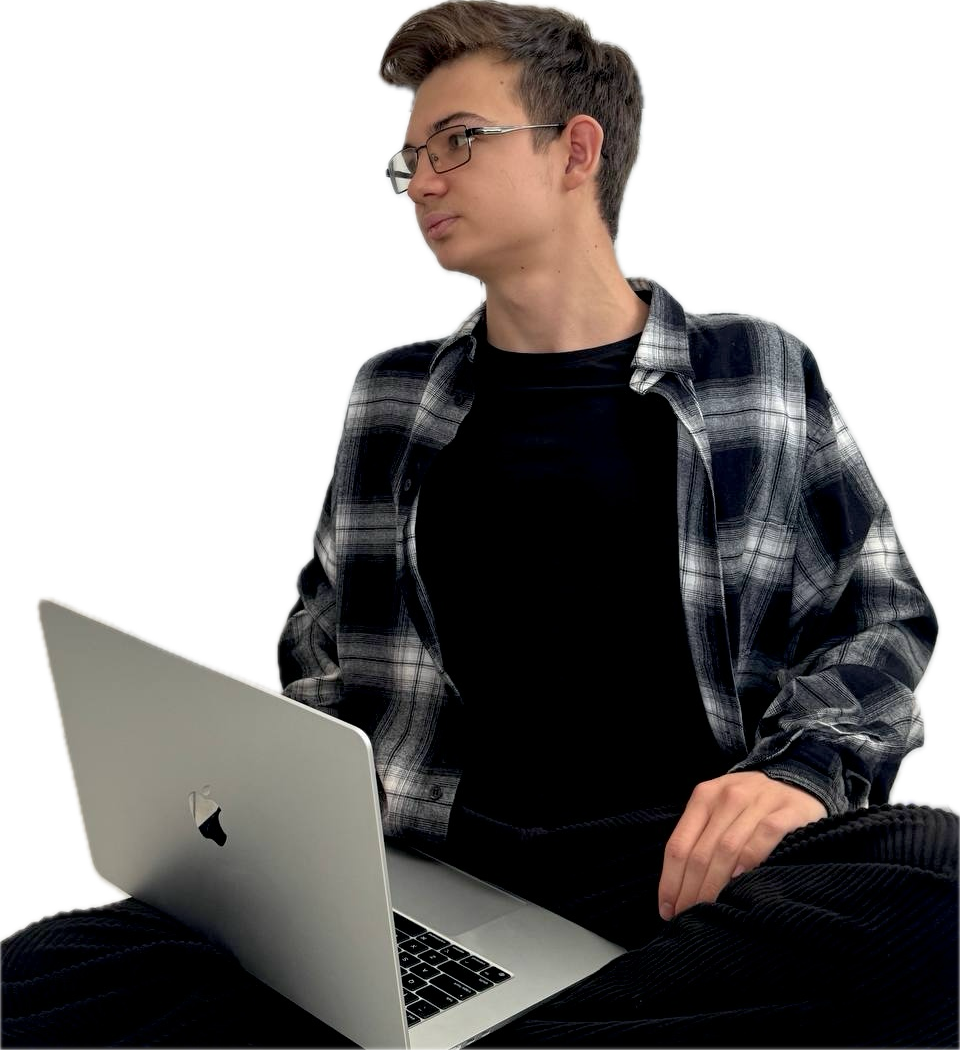
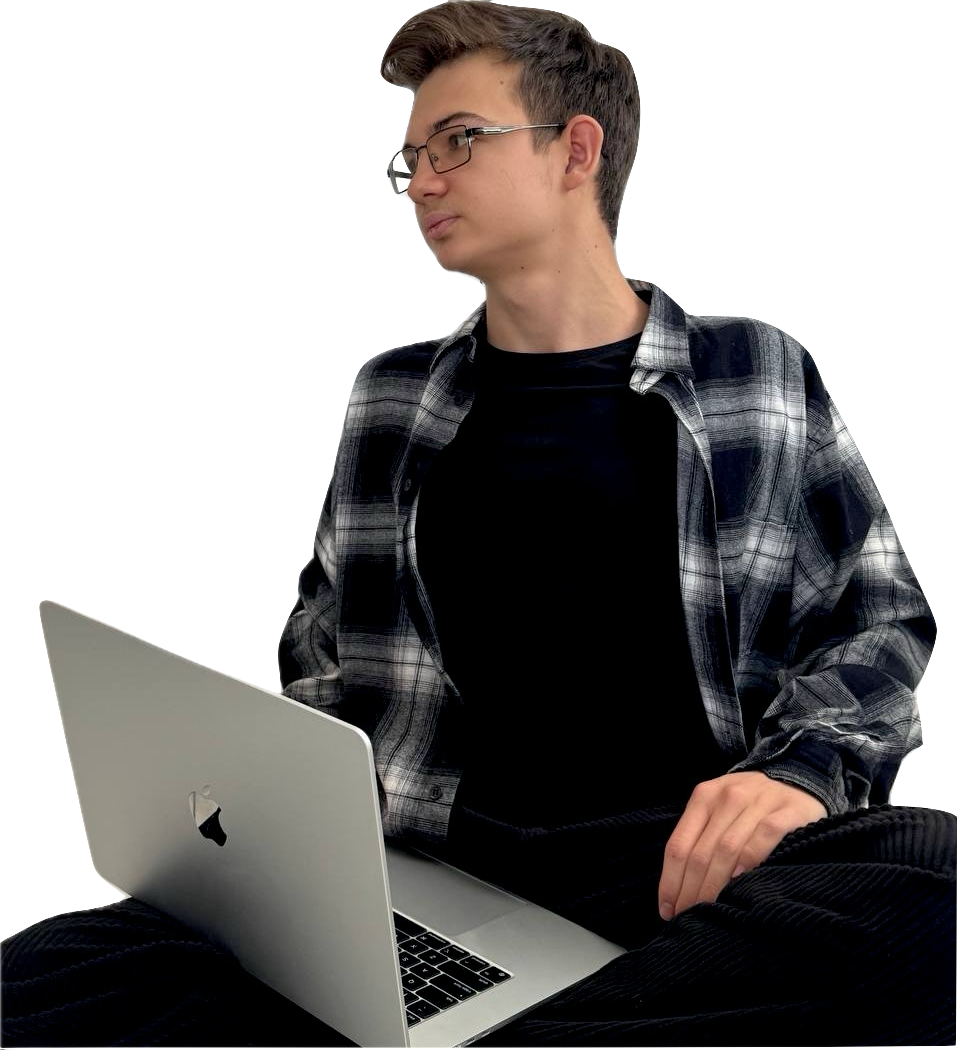
Доработка кроссбраузерности сайта

diff --git a/static/css/main.css b/static/css/main.css
@@ -83,7 +83,144 @@ body {
         max-width: 43vw;
     }
 }
+/* Затемняющий слой, который уезжает вверх */
+.introduce::before {
+    content: '';
+    position: absolute;
+    top: 0;
+    left: 0;
+    width: 100%;
+    height: 100%;
+    background: var(--bg);
+    z-index: 10;
+    animation: slideUp 1.8s cubic-bezier(0.77, 0, 0.18, 1) forwards;
+    pointer-events: none;
+}
 
+/* Второй слой для эффекта вылета из-за угла */
+.introduce::after {
+    content: '';
+    position: absolute;
+    top: 0;
+    left: 0;
+    width: 100%;
+    height: 100%;
+    background: linear-gradient(90deg, var(--bg) 0%, var(--bg) 50%, transparent 100%);
+    z-index: 9;
+    animation: slideRight 1.8s cubic-bezier(0.77, 0, 0.18, 1) forwards;
+    pointer-events: none;
+}
+
+/* Начальное состояние для всех элементов */
+.introduce-about h1,
+.introduce-about h2,
+.introduce-about h3,
+.social-links,
+.introduce-image {
+    opacity: 0;
+    transform: translateY(30px);
+    filter: blur(5px);
+}
+
+/* Индивидуальные анимации для каждого элемента */
+.introduce-about h1 {
+    animation: slideInFromBottom 0.6s cubic-bezier(0.23, 1, 0.32, 1) 1.2s forwards;
+}
+
+.introduce-about h2 {
+    animation: slideInFromBottom 0.6s cubic-bezier(0.23, 1, 0.32, 1) 1.4s forwards;
+}
+
+.introduce-about h3 {
+    animation: slideInFromBottom 0.6s cubic-bezier(0.23, 1, 0.32, 1) 1.6s forwards;
+}
+
+.social-links {
+    animation: slideInFromBottom 0.6s cubic-bezier(0.23, 1, 0.32, 1) 1.8s forwards;
+}
+
+.introduce-image {
+    animation: slideInFromBottom 0.8s cubic-bezier(0.23, 1, 0.32, 1) 1.3s forwards;
+}
+
+/* Ключевые кадры */
+@keyframes slideUp {
+    0% {
+        transform: translateY(0);
+    }
+    80% {
+        transform: translateY(-100%);
+    }
+    100% {
+        transform: translateY(-100%);
+        opacity: 0;
+    }
+}
+
+@keyframes slideRight {
+    0% {
+        transform: translateX(0);
+    }
+    50% {
+        transform: translateX(0);
+    }
+    100% {
+        transform: translateX(100%);
+        opacity: 0;
+    }
+}
+
+@keyframes slideInFromBottom {
+    0% {
+        opacity: 0;
+        transform: translateY(30px);
+        filter: blur(5px);
+    }
+    100% {
+        opacity: 1;
+        transform: translateY(0);
+        filter: blur(0);
+    }
+}
+
+/* Для мобильных устройств */
+@media (max-width: 1024px) {
+    .introduce::before {
+        animation: slideUpMobile 1.5s cubic-bezier(0.77, 0, 0.18, 1) forwards;
+    }
+
+    .introduce::after {
+        display: none;
+    }
+
+    .introduce-about h1,
+    .introduce-about h2,
+    .introduce-about h3,
+    .social-links,
+    .introduce-image {
+        animation: slideInFromBottom 0.5s cubic-bezier(0.23, 1, 0.32, 1) forwards;
+    }
+
+    .introduce-about h1 { animation-delay: 1.0s; }
+    .introduce-about h2 { animation-delay: 1.2s; }
+    .introduce-about h3 { animation-delay: 1.4s; }
+    .social-links { animation-delay: 1.6s; }
+    .introduce-image { animation-delay: 1.1s; }
+
+    @keyframes slideUpMobile {
+        0% { transform: translateY(0); }
+        70% { transform: translateY(-100%); }
+        100% { transform: translateY(-100%); opacity: 0; }
+    }
+}
+
+@media (max-width: 480px) {
+    .introduce-about h1 { animation-delay: 0.9s; }
+    .introduce-about h2 { animation-delay: 1.1s; }
+    .introduce-about h3 { animation-delay: 1.3s; }
+    .social-links { animation-delay: 1.5s; }
+    .introduce-image { animation-delay: 1.0s; }
+}
 header nav a {
     text-decoration: none;
     color: var(--text);
@@ -117,7 +254,7 @@ header {
     transition: 0.2s;
     aspect-ratio: 1 / 1;
     border-radius: 50%;
-    border: 2.5px solid var(--accent2);
+    border: 0.15vw solid var(--accent2);
     width: 2vw;
     padding: 0.3vw;
 }
@@ -166,7 +303,7 @@ header nav {
     width: 100%;
     max-width: 100%;
     padding: 0 3vw 0 5vw;
-    gap: 0;
+    gap: 6vw;
     /* секция растянута на всю ширину родителя */
     box-sizing: border-box;
 }
@@ -235,11 +372,11 @@ header nav {
     .introduce-about {
         grid-row: 2;
         width: 100%;
-        overflow: hidden;
     }
     .introduce-about h1 {
-        font-size: clamp(28px, 11vw, 72px);
-        transform: none;
+        font-size: clamp(28px, 10vw, 48px);
+        transform: scaleX(1.3);
+        transform-origin: center;
         max-width: 100%;
         display: block;
         text-align: center;
@@ -250,7 +387,7 @@ header nav {
     }
     .introduce-about h3 {
         font-size: clamp(12px, 2.5vw, 18px);
-        text-align: center;
+        text-align: justify-all;
     }
     .social-links {
         justify-content: center;
@@ -258,6 +395,7 @@ header nav {
     }
     .social-link {
         width: clamp(36px, 6vw, 48px);
+        border: 0.5vw solid var(--accent2);
         padding: 6px;
     }
     .btn-tz {
@@ -271,20 +409,14 @@ header nav {
         gap: 24px;
         padding: 0 5vw;
     }
-    .introduce-about h1 {
-        font-size: clamp(28px, 10vw, 48px);
-    }
     .introduce-about h2 {
-        font-size: clamp(16px, 5vw, 28px);
+        font-size: clamp(20px, 7vw, 30px);
     }
     .introduce-about h3 {
-        font-size: 13px;
+        font-size: 15px;
     }
     .introduce-image {
         width: clamp(160px, 65vw, 280px);
-    }
-    .social-links {
-        gap: 10px;
     }
     .social-link {
         width: 38px;
@@ -1197,7 +1329,7 @@ header nav {
 .out-accent { color: var(--accent2); font-family: 'JetBrains Mono', monospace;}
 .out-green  { color: var(--green); font-family: 'JetBrains Mono', monospace;}
 .out-muted  { font-family: 'JetBrains Mono', monospace;}
-.terminal-link { font-family: 'JetBrains Mono', monospace; text-decoration: underline; color: var(--accent); }
+.terminal-link { font-family: 'JetBrains Mono', monospace; text-decoration: underline; color: var(--accent2); }
 
 /* Спиннер при загрузке */
 .loading-dots {
@@ -1226,22 +1358,28 @@ header nav {
 }
 
 .profile-photo {
-    width: 30vw;
+    width: 35vw;
+    @media (max-width: 1024px) {
+        width: 45vw;
+    }
+    @media (max-width: 640px) {
+        width: 70vw;
+    }
     height: auto;
     display: block;
     -webkit-mask-image: linear-gradient(
             to bottom,
             black 0%,
-            black 55%,
-            rgba(0,0,0,0.85) 70%,
-            rgba(0,0,0,0.4) 85%,
+            black 100%,
+            rgba(0,0,0,0.85) 100%,
+            rgba(0,0,0,0.4) 100%,
             transparent 100%
     ),
     linear-gradient(
             to right,
             transparent 0%,
             black 12%,
-            black 88%,
+            black 100%,
             transparent 100%
     );
     -webkit-mask-composite: destination-in;
@@ -1261,8 +1399,5 @@ header nav {
             transparent 100%
     );
     mask-composite: intersect;
-}
-
-.scan-line {
-    display: none;
+    filter: drop-shadow(0 20px 50px var(--surface2));
 }

diff --git a/static/js/stars.js b/static/js/stars.js
@@ -4,6 +4,11 @@
         const section = document.getElementById('projects');
         if (!section) return;
 
+        /* ── Определение touch-устройства ───────────────────────── */
+        const isTouchDevice = ('ontouchstart' in window) ||
+            (navigator.maxTouchPoints > 0) ||
+            (navigator.msMaxTouchPoints > 0);
+
         /* ── Canvas ─────────────────────────────────────────────── */
         const canvas = document.createElement('canvas');
         Object.assign(canvas.style, {
@@ -77,23 +82,22 @@
             }
         }, 200);
 
-        /* ── Курсор ─────────────────────────────────────────────────
-         * dirX/dirY  — направление движения (-1 … +1), задаётся курсором
-         * smDirX/Y   — плавно сглаженное направление
-         * По умолчанию курсор считается в центре → нет движения.
-         * ────────────────────────────────────────────────────────── */
+        /* ── Курсор (только для non-touch устройств) ─────────────── */
         let dirX = 0, dirY = 0;
         let smDirX = 0, smDirY = 0;
 
-        document.addEventListener('mousemove', e => {
-            const r = section.getBoundingClientRect();
-            // Нормализуем относительно центра секции: -1 … +1
-            dirX = ((e.clientX - r.left) / W - 0.5) * 2;
-            dirY = ((e.clientY - r.top)  / H - 0.5) * 2;
-        });
+        if (!isTouchDevice) {
+            document.addEventListener('mousemove', e => {
+                const r = section.getBoundingClientRect();
+                // Нормализуем относительно центра секции: -1 … +1
+                dirX = ((e.clientX - r.left) / W - 0.5) * 2;
+                dirY = ((e.clientY - r.top)  / H - 0.5) * 2;
+            });
+        }
 
         /* ── Плавное переключение скролл ↔ курсор ─────────────────
          * cursorAlpha: 0 = скролл рулит, 1 = курсор рулит
+         * Для touch-устройств cursorAlpha всегда равен 0
          * ────────────────────────────────────────────────────────── */
         let cursorAlpha = 0;
 
@@ -104,21 +108,28 @@
             requestAnimationFrame(draw);
             tick++;
 
-            // Плавно сглаживаем направление курсора
-            smDirX += (dirX - smDirX) * 0.04;
-            smDirY += (dirY - smDirY) * 0.04;
+            if (!isTouchDevice) {
+                // Плавно сглаживаем направление курсора (только для non-touch)
+                smDirX += (dirX - smDirX) * 0.04;
+                smDirY += (dirY - smDirY) * 0.04;
 
-            // Плавно переключаем режим
-            const targetAlpha = isScrolling ? 0 : 1;
-            cursorAlpha += (targetAlpha - cursorAlpha) * 0.06;
+                // Плавно переключаем режим (только для non-touch)
+                const targetAlpha = isScrolling ? 0 : 1;
+                cursorAlpha += (targetAlpha - cursorAlpha) * 0.06;
+            } else {
+                // Для touch-устройств курсорный эффект отключен
+                smDirX = 0;
+                smDirY = 0;
+                cursorAlpha = 0;
+            }
 
             ctx.clearRect(0, 0, W, H);
 
             stars.forEach(s => {
                 const L = LAYERS[s.li];
 
-                // Когда не скроллим — двигаем базовую позицию в направлении курсора
-                if (!isScrolling || cursorAlpha > 0.01) {
+                // Движение под влиянием курсора (только если cursorAlpha > 0)
+                if (cursorAlpha > 0.01) {
                     const vx = smDirX * L.speed * L.cursor * cursorAlpha;
                     const vy = smDirY * L.speed * L.cursor * cursorAlpha;
                     s.x = ((s.x + vx) % W + W) % W;

diff --git a/static/js/terminal.js b/static/js/terminal.js
@@ -117,7 +117,7 @@ document.addEventListener('DOMContentLoaded', () => {
         await sleep(220);
         await printLines([
             'Андрей Караваев — fullstack-разработчик, 16 лет.',
-            'Специализация: frontend, backend, системное программирование, безопасность.',
+            'Специализация: frontend, backend, системное программирование, кибербезопасность.',
         ], 120);
 
         // ── stack ───────────────────────────────────────────

diff --git a/static/js/slider.js b/static/js/slider.js
@@ -76,9 +76,6 @@ class ProjectGallery {
                 '/static/assets/artifex/artifex6.png',
             ],
             'lethalhome': [
-                '/static/assets/lethalhome/lethalhome1.png',
-                '/static/assets/lethalhome/lethalhome2.png',
-                '/static/assets/lethalhome/lethalhome3.png',
                 '/static/assets/lethalhome/lethalhome4.png',
                 '/static/assets/lethalhome/lethalhome5.png',
                 '/static/assets/lethalhome/lethalhome6.png',

diff --git a/templates/main.html b/templates/main.html
@@ -49,7 +49,7 @@
         </div>
         <div class="introduce-image">
             <div class="photo-frame">
-                <img src="/static/assets/traced-my_photo.png"
+                <img src="/static/assets/my_photo%20copy.png"
                      alt="Андрей Караваев"
                      class="profile-photo"
                      loading="lazy">
